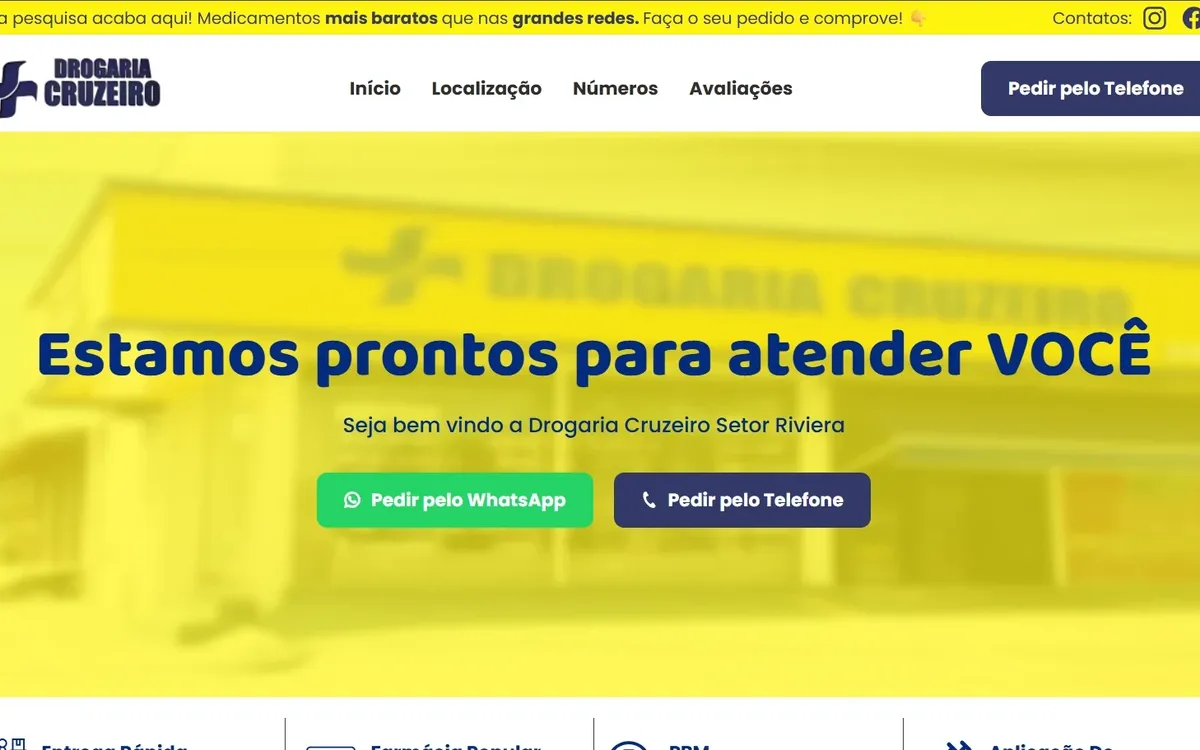
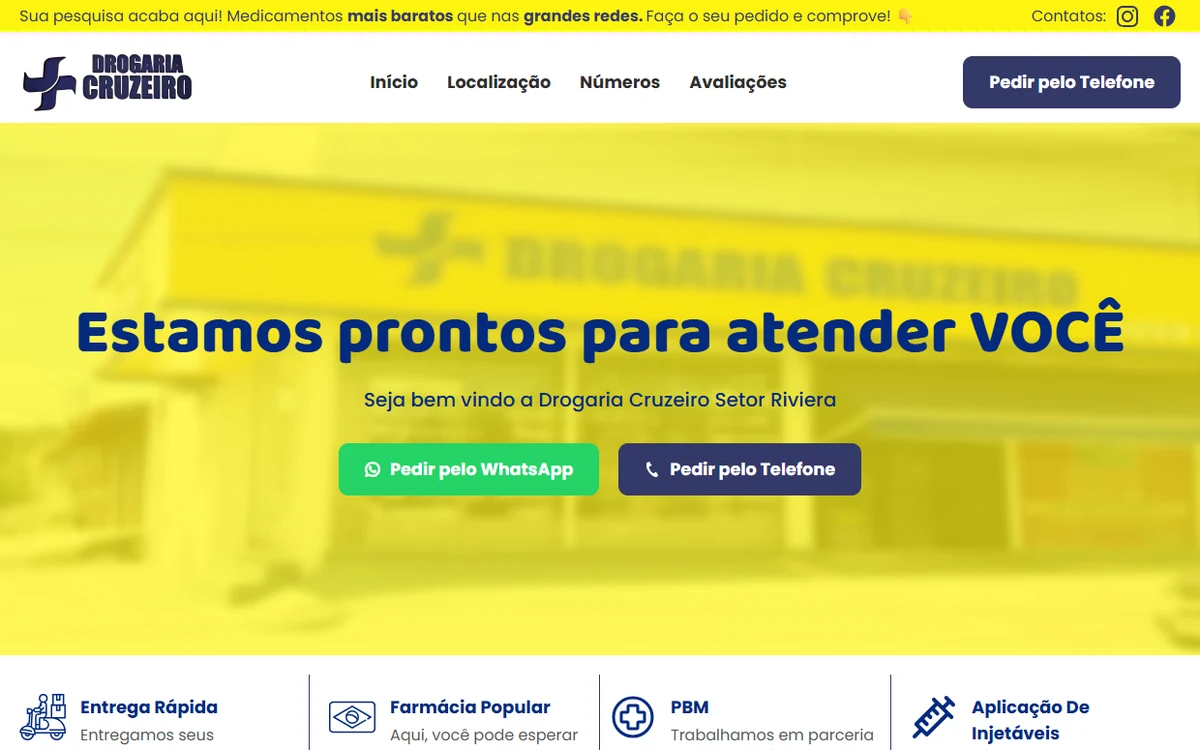
Projetos: print mais nítido da Drogaria Cruzeiro

diff --git a/index.html b/index.html
@@ -30,7 +30,7 @@
      chegarem, faziam o navegador refazer o layout: ~85 a 220 ms de travada) -->
 <link rel="preload" href="fontes/bricolage-grotesque-latin.woff2" as="font" type="font/woff2" crossorigin>
 <link rel="preload" href="fontes/public-sans-latin.woff2" as="font" type="font/woff2" crossorigin>
-<link rel="stylesheet" href="css/style.css?v=20261010e">
+<link rel="stylesheet" href="css/style.css?v=20261010h">
 
 
 </head>
@@ -274,7 +274,7 @@
   </footer>
 </div>
 
-<script src="js/dados.js?v=20261010e"></script>
-<script src="js/main.js?v=20261010e"></script>
+<script src="js/dados.js?v=20261010h"></script>
+<script src="js/main.js?v=20261010h"></script>
 </body>
 </html>

diff --git a/js/dados.js b/js/dados.js
@@ -122,7 +122,7 @@ window.DADOS = {
       tipo: "Site",
       link: "https://drogariacruzeiro.site/",
       nota: "Em parceria com a Virtus Apex",
-      imagem: "imagens/projetos/drogaria-cruzeiro.webp",
+      imagem: "imagens/projetos/drogaria-cruzeiro.webp?v=4",
     },
     {
       nome: "Agencia de Marketing Digital para médicos",
